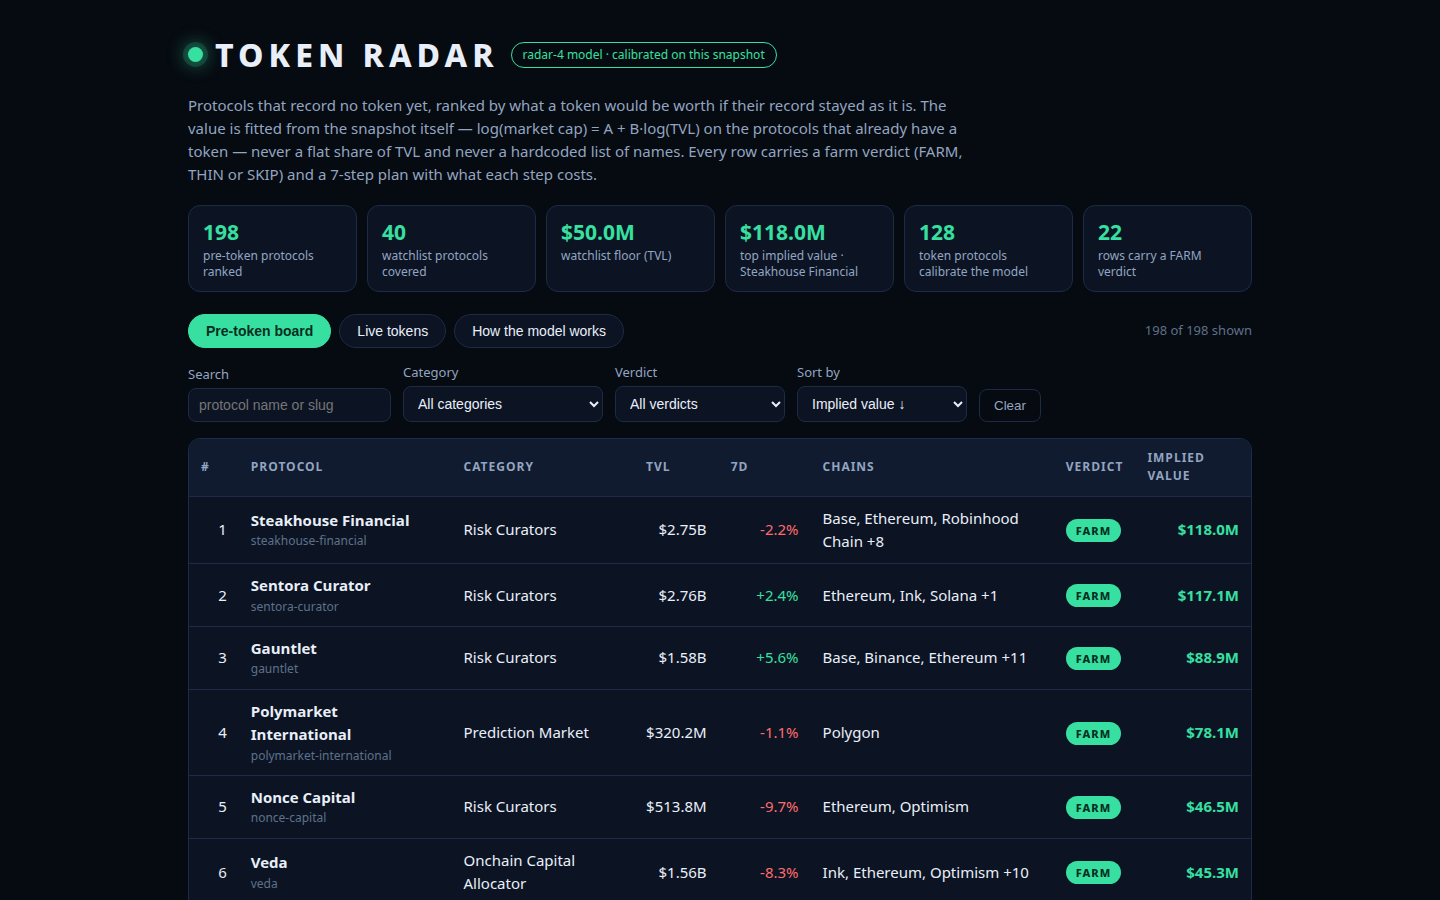
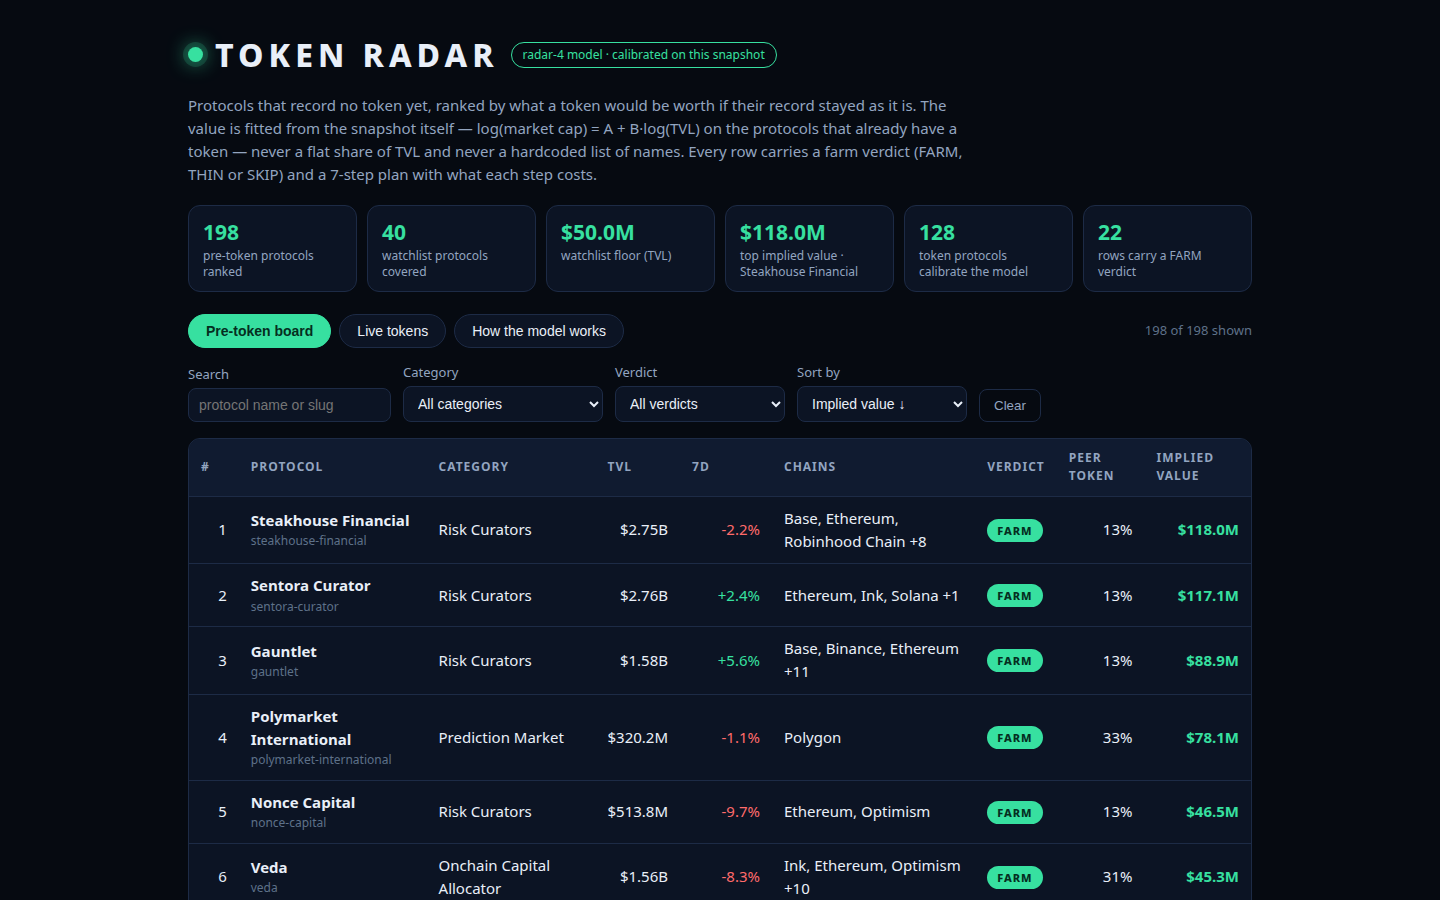
Token Radar radar-4: peer token rate visible on the board and in the model view
- Board gains a Peer token column (share of the category's protocols
  that already record a token) plus a sort by peer token rate
- Model view category-factors table gains a peer token rate column
  with a note that it is shown for context and never enters the value

diff --git a/dashboard/app.js b/dashboard/app.js
@@ -57,6 +57,7 @@ function filtered() {
     tvl: (a, b) => b.tvl_usd - a.tvl_usd,
     age: (a, b) => b.age_days - a.age_days,
     growth: (a, b) => (b.change_7d ?? -1e9) - (a.change_7d ?? -1e9),
+    peer: (a, b) => b.peer_token_rate - a.peer_token_rate,
     name: (a, b) => a.name.localeCompare(b.name),
   }[state.sort];
   return list.sort(by);
@@ -73,6 +74,7 @@ function renderBoard() {
       <td class="num ${r.change_7d === null ? "" : r.change_7d >= 0 ? "pos" : "neg"}">${pct(r.change_7d)}</td>
       <td>${esc(chainsShort(r.chains))}</td>
       <td>${verdictBadge(r.verdict)}</td>
+      <td class="num">${Math.round(r.peer_token_rate * 100)}%</td>
       <td class="num implied">${money(r.implied_value_usd)}</td>
     </tr>`).join("");
   $("empty").hidden = list.length > 0;
@@ -138,9 +140,14 @@ function renderDetail(scrollIntoView) {
 function renderModel() {
   const box = $("modelwrap");
   const bt = R.model.backtest;
+  const peerByCat = {};
+  for (const r of R.rows) {
+    const key = r.category ?? "(null)";
+    if (!(key in peerByCat)) peerByCat[key] = r.peer_token_rate;
+  }
   const factors = Object.entries(R.model.category_factors)
     .sort((a, b) => b[1] - a[1])
-    .map(([k, v]) => `<tr><td>${esc(k)}</td><td class="num">${mult(v)}</td></tr>`).join("");
+    .map(([k, v]) => `<tr><td>${esc(k)}</td><td class="num">${mult(v)}</td><td class="num">${Math.round((peerByCat[k] ?? 0) * 100)}% of peers have a token</td></tr>`).join("");
   box.innerHTML = `
     <h2>How the model works — radar-4</h2>
     <p>${esc(R.model.method)}</p>
@@ -154,8 +161,9 @@ function renderModel() {
     <h3>2. Category factors — same TVL, different worth</h3>
     <p>Each category's factor is the shrunk mean of its residuals from the power law, pulled toward 1.0
     with weight n/(n+6) so a thin category cannot swing the value. Categories with no token protocol
-    in the snapshot take 1.0.</p>
-    <table class="breakdown"><tbody>${factors}</tbody></table>
+    in the snapshot take 1.0. The peer token rate beside each factor is the share of that category's
+    protocols that already record a token — shown for context, it never enters the factor or the value.</p>
+    <table class="breakdown"><thead><tr><th>Category</th><th>Factor</th><th>Peer token rate</th></tr></thead><tbody>${factors}</tbody></table>
     <h3>3. Growth and maturity — kept small on purpose</h3>
     <p>Growth moves the value at most 10% (7-day change clamped to ${R.model.growth_floor}%…${R.model.growth_cap}%)
     and age at most 5% (${R.model.maturity_floor.toFixed(2)}–${(R.model.maturity_floor + R.model.maturity_range).toFixed(2)} over ${R.model.maturity_days} days).

diff --git a/dashboard/index.html b/dashboard/index.html
@@ -48,6 +48,7 @@
       <option value="tvl">TVL ↓</option>
       <option value="age">Age ↓</option>
       <option value="growth">7-day change ↓</option>
+      <option value="peer">Peer token rate ↓</option>
       <option value="name">Name A–Z</option>
     </select>
   </label>
@@ -60,7 +61,7 @@
   <section class="boardwrap">
     <table id="board">
       <thead>
-        <tr><th>#</th><th>Protocol</th><th>Category</th><th>TVL</th><th>7d</th><th>Chains</th><th>Verdict</th><th>Implied value</th></tr>
+        <tr><th>#</th><th>Protocol</th><th>Category</th><th>TVL</th><th>7d</th><th>Chains</th><th>Verdict</th><th>Peer token</th><th>Implied value</th></tr>
       </thead>
       <tbody id="rows"></tbody>
     </table>
